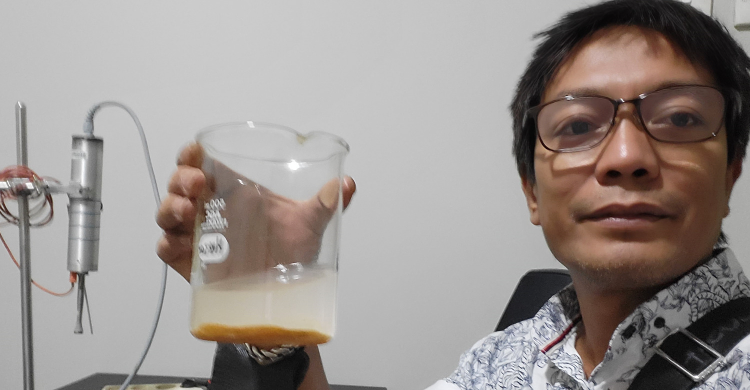
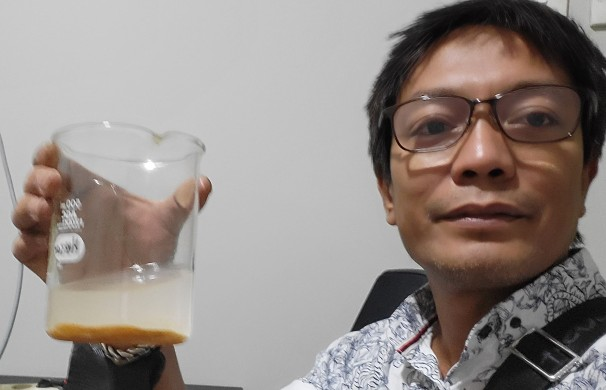
fix(update): responsive news page

diff --git a/page/news.html b/page/news.html
@@ -79,7 +79,7 @@
 
         <!-- Artikel -->
         <section id="artikel" class="bg-white py-16 xl:py-16">
-            <div class="max-w-7xl mx-auto pt-24 px-6">
+            <div class="max-w-7xl mx-auto pt-10 px-6">
 
                 <!-- Heading -->
                 <h2 data-en="Article" data-id="Artikel"
@@ -99,7 +99,7 @@
 
                         <h3 data-en="Indonesia’s Marine Biotechnology: Fueling a Sustainable Blue Economy"
                             data-id="Bioteknologi Kelautan Indonesia: Penggerak Ekonomi Biru Berkelanjutan"
-                            class="lang-target mt-8 text-4xl font-bold text-gray-900 leading-snug max-w-3xl reveal delay-4">
+                            class="lang-target mt-8 text-3xl lg:text-4xl font-bold text-gray-900 leading-snug max-w-3xl reveal delay-4">
                             Indonesia’s Marine Biotechnology: Fueling a Sustainable Blue Economy
                         </h3>
                         <p data-en="Friday, 15 August 2025 | –" data-id="Jum'at, 15 Agustus 2025 | -"
@@ -115,69 +115,79 @@
 
 
                     <!-- Kanan -->
-                    <div class="lg:col-span-2 flex flex-col gap-16">
+                    <div class="lg:col-span-2 flex flex-col gap-10">
 
                         <!-- Item -->
-                        <div class="flex gap-6 items-start group">
+                        <div class="flex flex-col lg:flex-row gap-4 lg:gap-6 group">
 
-                            <div class="w-[180px] h-[180px] rounded-2xl overflow-hidden flex-shrink-0 reveal delay-3">
+                            <!-- Gambar -->
+                            <div
+                                class="w-full lg:w-[180px] h-[200px] lg:h-[180px] rounded-2xl overflow-hidden flex-shrink-0 reveal delay-3">
                                 <img src="/assets/images/artikel/6.webp"
                                     class="w-full h-full object-cover group-hover:scale-105 transition duration-500">
                             </div>
 
+                            <!-- Teks -->
                             <div class="flex-1">
 
                                 <h4 data-en="Optimizing the Utilization of Marine Resources"
                                     data-id="Pemanfaatan Sumber Daya Laut Perlu Dioptimalkan"
-                                    class="lang-target text-2xl font-semibold text-gray-900 mb-3 leading-snug reveal delay-4">
+                                    class="lang-target text-xl lg:text-2xl font-semibold text-gray-900 mb-2 leading-snug reveal delay-4">
                                     Pemanfaatan Sumber Daya Laut Perlu Dioptimalkan
                                 </h4>
+
                                 <p data-en="Wednesday, 15 July 2020 | 21:25 WIB"
                                     data-id="Rabu, 15 Juli 2020 | 21:25 WIB"
-                                    class="lang-target text-[#457B9D] reveal delay-5">
+                                    class="lang-target text-[#457B9D] text-sm lg:text-base reveal delay-5">
                                     Rabu, 15 Juli 2020 | 21:25 WIB
                                 </p>
-                                <a data-en="See More →" data-id="Selengkapnya →" href="https://mediaindonesia.com/ekonomi/328646/pemanfaatan-sumber-daya-laut-perlu-dioptimalkan"
-                                    class="lang-target text-[#1D3557] font-semibold reveal delay-6" target="_blank"
-                                    rel="noopener noreferrer">
+
+                                <a data-en="See More →" data-id="Selengkapnya →"
+                                    href="https://mediaindonesia.com/ekonomi/328646/pemanfaatan-sumber-daya-laut-perlu-dioptimalkan"
+                                    class="lang-target text-[#1D3557] font-semibold text-sm lg:text-base reveal delay-6"
+                                    target="_blank" rel="noopener noreferrer">
                                     See More →
                                 </a>
 
                             </div>
-
                         </div>
 
-
                         <!-- Item -->
-                        <div class="flex gap-6 items-start group">
+                        <div class="flex flex-col lg:flex-row gap-4 lg:gap-6 group">
 
-                            <div class="w-[180px] h-[180px] rounded-2xl overflow-hidden flex-shrink-0 reveal delay-3">
+                            <!-- Gambar -->
+                            <div
+                                class="w-full lg:w-[180px] h-[200px] lg:h-[180px] rounded-2xl overflow-hidden flex-shrink-0 reveal delay-3">
                                 <img src="/assets/images/artikel/5.webp"
                                     class="w-full h-full object-cover group-hover:scale-105 transition duration-500">
                             </div>
 
+                            <!-- Teks -->
                             <div class="flex-1">
 
                                 <h4 data-en="Advancing Biotechnology in the Blue Economy"
                                     data-id="Pengembangan Bioteknologi dalam Ekonomi Biru"
-                                    class="lang-target text-2xl font-semibold text-gray-900 mb-3 leading-snug reveal delay-4">
+                                    class="lang-target text-xl lg:text-2xl font-semibold text-gray-900 mb-2 leading-snug reveal delay-4">
                                     Pengembangan Bioteknologi dalam Ekonomi Biru
                                 </h4>
+
                                 <p data-en="Tuesday, 12 August 2025 | –" data-id="Selasa, 12 Agustus 2025 | -"
-                                    class="lang-target text-[#457B9D] reveal delay-5">
+                                    class="lang-target text-[#457B9D] text-sm lg:text-base reveal delay-5">
                                     Selasa, 12 Agustus 2025 | -
                                 </p>
-                                <a data-en="See More →" data-id="Selengkapnya →" href="https://siplawfirm.id/pengembangan-bioteknologi-dalam-ekonomi-biru/?lang=id"
-                                    class="lang-target text-[#1D3557] font-semibold reveal delay-6" target="_blank"
-                                    rel="noopener noreferrer">
+
+                                <a data-en="See More →" data-id="Selengkapnya →"
+                                    href="https://siplawfirm.id/pengembangan-bioteknologi-dalam-ekonomi-biru/?lang=id"
+                                    class="lang-target text-[#1D3557] font-semibold text-sm lg:text-base reveal delay-6"
+                                    target="_blank" rel="noopener noreferrer">
                                     See More →
                                 </a>
 
                             </div>
-
                         </div>
 
                     </div>
+
 
                 </div>
 
@@ -188,7 +198,7 @@
                     <!-- Card putih -->
                     <div
                         class="border border-gray-300 rounded-2xl flex overflow-hidden flex-col justify-start reveal delay-1">
-                        <img class="h-64 bg-cover" src="/assets/images/artikel/1.webp" alt="">
+                        <img class="h-64 object-cover" src="/assets/images/artikel/1.webp" alt="">
                         <div class="p-5 grid gap-2">
                             <h1 data-en="KKP: Marine Biotechnology Drives Blue Economy Development"
                                 data-id="KKP Sebut Manfaat Bioteknologi Kelautan Ciptakan Pembangunan Ekonomi Biru"
@@ -223,7 +233,7 @@
                     <!-- Card putih -->
                     <div
                         class="border border-gray-300 rounded-2xl flex overflow-hidden flex-col justify-start reveal delay-3">
-                        <img class="h-64 bg-auto" src="/assets/images/artikel/2.webp" alt="">
+                        <img class="h-64 object-cover" src="/assets/images/artikel/2.webp" alt="">
                         <div class="p-5 grid gap-2">
                             <h1 data-en="KKP: Biotechnology Is Key to Achieving Sustainable Blue Economic Growth"
                                 data-id="KKP: Bioteknologi Kunci Mencapai Pertumbuhan Ekonomi Biru yang Berkelanjutan"
@@ -255,7 +265,7 @@
                     <!-- Card putih -->
                     <div
                         class="border border-gray-300 rounded-2xl flex overflow-hidden flex-col justify-start reveal delay-5">
-                        <img class="h-64 bg-auto" src="/assets/images/artikel/3.webp" alt="">
+                        <img class="h-64 object-cover" src="/assets/images/artikel/3.webp" alt="">
                         <div class="p-5 grid gap-2">
                             <h1 data-en="KKP: Marine Biotechnology Drives Blue Economy Development"
                                 data-id="KKP Sebut Manfaat Bioteknologi Kelautan Ciptakan Pembangunan Ekonomi Biru"
